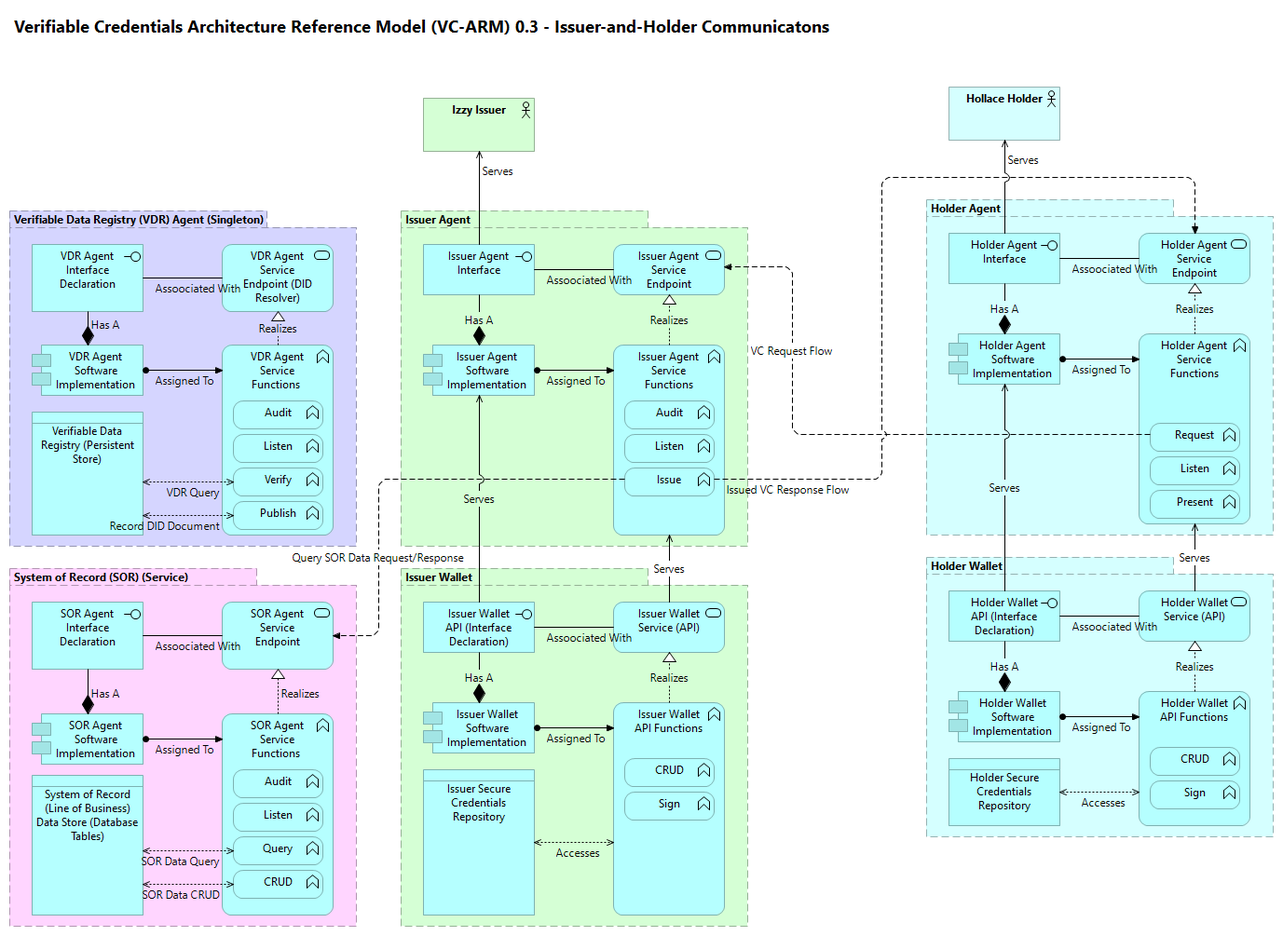
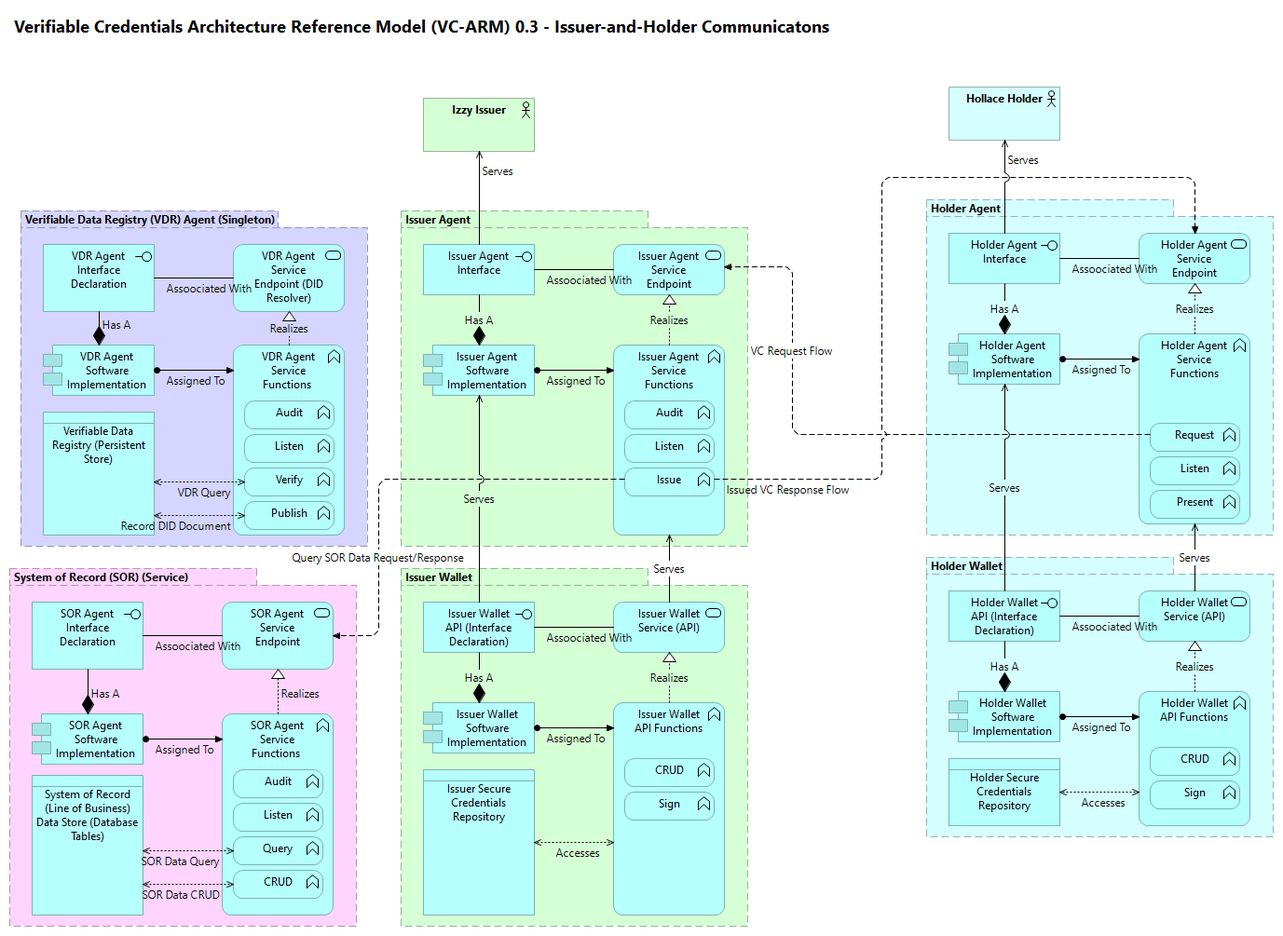
Added FAQ

Changed region(s): [[0.0, 0.2159, 0.3123, 0.5861]]

diff --git a/docs/id-5f1b868ce86d44c0824994fb5651137e/views/id-4c0af73380a04267b448e217e11a80a4.html b/docs/id-5f1b868ce86d44c0824994fb5651137e/views/id-4c0af73380a04267b448e217e11a80a4.html
@@ -34,18 +34,18 @@
 		    <!-- If this is a digram model (has children and no bounds) show the image -->
 			   <img class="diagram" src="../images/id-4c0af73380a04267b448e217e11a80a4.png" alt="Communication Flows: Issuer-and-Holder" usemap="#id-4c0af73380a04267b448e217e11a80a4map"/>
 			   <map name="id-4c0af73380a04267b448e217e11a80a4map">
-				  				<area shape="rect" coords="34,442,154,575" href="../elements/id-d2669cd4869b4918b96d83f2697f63bf.html"  target="element">
-				  						<area shape="rect" coords="250,430,347,461" href="../elements/id-143b9edecc7b44c0917c55745e32f9d3.html"  target="element">
-				  						<area shape="rect" coords="250,538,347,569" href="../elements/id-7ab0f2a4dbd24fd982598d35aa2033d5.html"  target="element">
-				  						<area shape="rect" coords="250,502,347,533" href="../elements/id-238f9a684a5e4c48839e8c8fc182c066.html"  target="element">
-				  						<area shape="rect" coords="250,466,347,497" href="../elements/id-466c1edd85ff4fd88c7d10ef111f2081.html"  target="element">
+				  				<area shape="rect" coords="46,442,166,575" href="../elements/id-d2669cd4869b4918b96d83f2697f63bf.html"  target="element">
+				  						<area shape="rect" coords="262,430,359,461" href="../elements/id-143b9edecc7b44c0917c55745e32f9d3.html"  target="element">
+				  						<area shape="rect" coords="262,538,359,569" href="../elements/id-7ab0f2a4dbd24fd982598d35aa2033d5.html"  target="element">
+				  						<area shape="rect" coords="262,502,359,533" href="../elements/id-238f9a684a5e4c48839e8c8fc182c066.html"  target="element">
+				  						<area shape="rect" coords="262,466,359,497" href="../elements/id-466c1edd85ff4fd88c7d10ef111f2081.html"  target="element">
 
-				  				<area shape="rect" coords="238,370,358,575" href="../elements/id-da2157ea7d364e7d9f803749988b112b.html"  target="element">
-				  				<area shape="rect" coords="238,262,358,335" href="../elements/id-598dcd0d44c14dc88d2234e6d6434af1.html"  target="element">
-				  				<area shape="rect" coords="34,262,154,335" href="../elements/id-f49c5bb6f4c3437a9a09ce7afd8a2c67.html"  target="element">
-				  				<area shape="rect" coords="34,370,154,425" href="../elements/id-fa38868c0df74b93a37cbc67a8cc2287.html"  target="element">
+				  				<area shape="rect" coords="250,370,370,575" href="../elements/id-da2157ea7d364e7d9f803749988b112b.html"  target="element">
+				  				<area shape="rect" coords="250,262,370,335" href="../elements/id-598dcd0d44c14dc88d2234e6d6434af1.html"  target="element">
+				  				<area shape="rect" coords="46,262,166,335" href="../elements/id-f49c5bb6f4c3437a9a09ce7afd8a2c67.html"  target="element">
+				  				<area shape="rect" coords="46,370,166,425" href="../elements/id-fa38868c0df74b93a37cbc67a8cc2287.html"  target="element">
 
-				  		<area shape="rect" coords="10,226,383,587" href="../elements/id-7cb45253d77f4068ae1a3cfa44d5d845.html"  target="element">
+				  		<area shape="rect" coords="22,226,395,587" href="../elements/id-7cb45253d77f4068ae1a3cfa44d5d845.html"  target="element">
 				  				<area shape="rect" coords="34,832,154,983" href="../elements/id-2aa252f167834aa2a2e55701203b2270.html"  target="element">
 				  						<area shape="rect" coords="250,826,347,857" href="../elements/id-8f312895ae574dfa8adbec6e15f2b607.html"  target="element">
 				  						<area shape="rect" coords="250,934,347,965" href="../elements/id-335c50648a6e4cf1a4544d76a94bcf3a.html"  target="element">
@@ -916,12 +916,6 @@
 																		<td> <a href="../elements/id-598dcd0d44c14dc88d2234e6d6434af1.html" target="element"> VDR Agent Service Endpoint (DID Resolver) </a> </td>
 																	</tr>
 																	<tr>
-																		<td> <a href="../elements/id-254c85ed8f8a455f9f8d03dc4af5f5a3.html" target="element">  </a> </td>
-																		<td> <a href="../elements/id-254c85ed8f8a455f9f8d03dc4af5f5a3.html" target="element" class="i18n-elementtype-CompositionRelationship"></a> </td>
-																		<td> <a href="../elements/id-7cb45253d77f4068ae1a3cfa44d5d845.html" target="element"> Verifiable Data Registry (VDR) Agent (Singleton) </a> </td>
-																		<td> <a href="../elements/id-f49c5bb6f4c3437a9a09ce7afd8a2c67.html" target="element"> VDR Agent Interface Declaration </a> </td>
-																	</tr>
-																	<tr>
 																		<td> <a href="../elements/id-c22a2f4f60394b5ba5d6a4dba4d61e34.html" target="element">  </a> </td>
 																		<td> <a href="../elements/id-c22a2f4f60394b5ba5d6a4dba4d61e34.html" target="element" class="i18n-elementtype-CompositionRelationship"></a> </td>
 																		<td> <a href="../elements/id-7cb45253d77f4068ae1a3cfa44d5d845.html" target="element"> Verifiable Data Registry (VDR) Agent (Singleton) </a> </td>
@@ -932,6 +926,12 @@
 																		<td> <a href="../elements/id-c8bce4f9b0394b56bb0a08739055cb70.html" target="element" class="i18n-elementtype-CompositionRelationship"></a> </td>
 																		<td> <a href="../elements/id-7cb45253d77f4068ae1a3cfa44d5d845.html" target="element"> Verifiable Data Registry (VDR) Agent (Singleton) </a> </td>
 																		<td> <a href="../elements/id-d2669cd4869b4918b96d83f2697f63bf.html" target="element"> Verifiable Data Registry (Persistent Store) </a> </td>
+																	</tr>
+																	<tr>
+																		<td> <a href="../elements/id-254c85ed8f8a455f9f8d03dc4af5f5a3.html" target="element">  </a> </td>
+																		<td> <a href="../elements/id-254c85ed8f8a455f9f8d03dc4af5f5a3.html" target="element" class="i18n-elementtype-CompositionRelationship"></a> </td>
+																		<td> <a href="../elements/id-7cb45253d77f4068ae1a3cfa44d5d845.html" target="element"> Verifiable Data Registry (VDR) Agent (Singleton) </a> </td>
+																		<td> <a href="../elements/id-f49c5bb6f4c3437a9a09ce7afd8a2c67.html" target="element"> VDR Agent Interface Declaration </a> </td>
 																	</tr>
 
 																			<tr>
@@ -955,10 +955,10 @@
 																			</tr>
 
 																			<tr>
-																				<td> <a href="../elements/id-89b760d8cd74445e994cde6f78cfdfe8.html" target="element">  </a> </td>
-																				<td> <a href="../elements/id-89b760d8cd74445e994cde6f78cfdfe8.html" target="element" class="i18n-elementtype-CompositionRelationship"></a> </td>
+																				<td> <a href="../elements/id-8df7479c4c674c49b52897e6119cc360.html" target="element">  </a> </td>
+																				<td> <a href="../elements/id-8df7479c4c674c49b52897e6119cc360.html" target="element" class="i18n-elementtype-CompositionRelationship"></a> </td>
 																				<td> <a href="../elements/id-da2157ea7d364e7d9f803749988b112b.html" target="element"> VDR Agent Service Functions  </a> </td>
-																				<td> <a href="../elements/id-143b9edecc7b44c0917c55745e32f9d3.html" target="element"> Audit </a> </td>
+																				<td> <a href="../elements/id-238f9a684a5e4c48839e8c8fc182c066.html" target="element"> Verify </a> </td>
 																			</tr>
 																			<tr>
 																				<td> <a href="../elements/id-8da49164fd4e4d8b8ac0d85acd8c000e.html" target="element">  </a> </td>
@@ -967,10 +967,10 @@
 																				<td> <a href="../elements/id-7ab0f2a4dbd24fd982598d35aa2033d5.html" target="element"> Publish </a> </td>
 																			</tr>
 																			<tr>
-																				<td> <a href="../elements/id-b8bd4dd5b99245b5b0ce816858c45f83.html" target="element"> Realizes </a> </td>
-																				<td> <a href="../elements/id-b8bd4dd5b99245b5b0ce816858c45f83.html" target="element" class="i18n-elementtype-RealizationRelationship"></a> </td>
+																				<td> <a href="../elements/id-89b760d8cd74445e994cde6f78cfdfe8.html" target="element">  </a> </td>
+																				<td> <a href="../elements/id-89b760d8cd74445e994cde6f78cfdfe8.html" target="element" class="i18n-elementtype-CompositionRelationship"></a> </td>
 																				<td> <a href="../elements/id-da2157ea7d364e7d9f803749988b112b.html" target="element"> VDR Agent Service Functions  </a> </td>
-																				<td> <a href="../elements/id-598dcd0d44c14dc88d2234e6d6434af1.html" target="element"> VDR Agent Service Endpoint (DID Resolver) </a> </td>
+																				<td> <a href="../elements/id-143b9edecc7b44c0917c55745e32f9d3.html" target="element"> Audit </a> </td>
 																			</tr>
 																			<tr>
 																				<td> <a href="../elements/id-98f1904410814c31bcf23fc3781caa10.html" target="element">  </a> </td>
@@ -979,10 +979,10 @@
 																				<td> <a href="../elements/id-466c1edd85ff4fd88c7d10ef111f2081.html" target="element"> Listen </a> </td>
 																			</tr>
 																			<tr>
-																				<td> <a href="../elements/id-8df7479c4c674c49b52897e6119cc360.html" target="element">  </a> </td>
-																				<td> <a href="../elements/id-8df7479c4c674c49b52897e6119cc360.html" target="element" class="i18n-elementtype-CompositionRelationship"></a> </td>
+																				<td> <a href="../elements/id-b8bd4dd5b99245b5b0ce816858c45f83.html" target="element"> Realizes </a> </td>
+																				<td> <a href="../elements/id-b8bd4dd5b99245b5b0ce816858c45f83.html" target="element" class="i18n-elementtype-RealizationRelationship"></a> </td>
 																				<td> <a href="../elements/id-da2157ea7d364e7d9f803749988b112b.html" target="element"> VDR Agent Service Functions  </a> </td>
-																				<td> <a href="../elements/id-238f9a684a5e4c48839e8c8fc182c066.html" target="element"> Verify </a> </td>
+																				<td> <a href="../elements/id-598dcd0d44c14dc88d2234e6d6434af1.html" target="element"> VDR Agent Service Endpoint (DID Resolver) </a> </td>
 																			</tr>
 
 																					<tr>

diff --git a/docs/id-5f1b868ce86d44c0824994fb5651137e/views/id-66320fa90a1a491fb546a35e341736f6.html b/docs/id-5f1b868ce86d44c0824994fb5651137e/views/id-66320fa90a1a491fb546a35e341736f6.html
@@ -1,0 +1,119 @@
+<!DOCTYPE HTML PUBLIC "-//W3C//DTD HTML 4.01 Transitional//EN" "http://www.w3.org/TR/html4/loose.dtd">
+<html class="frame" lang="en">
+<head>
+	<meta http-equiv="Content-Type" content="text/html;charset=utf-8">
+	<title>FAQ</title>
+
+	<!-- JQUERY (use 1.x branch to be compatible with IE 6/7/8) -->
+	<script type="text/javascript" src="../../lib/jquery/js/jquery-1.11.2.min.js"></script>
+	<!-- BOOTSTRAP -->
+	<link type="text/css" rel="stylesheet" href="../../lib/bootstrap/css/bootstrap-3.3.2.min.css">
+	<link type="text/css" rel="stylesheet" href="../../lib/bootstrap/css/bootstrap-theme-3.3.2.min.css">
+	<script type="text/javascript" src="../../lib/bootstrap/js/bootstrap-3.3.2.min.js"></script>
+	<!-- REPORT SPECIFIC -->
+	<link type="text/css" rel="stylesheet" href="../../css/model.css">
+	<link type="text/css" rel="stylesheet" href="../../css/i18n.css">
+	<script type="text/javascript" src="../../js/frame.js"></script>
+	<script type="text/javascript" src="../../js/imageMapResizer.min.js"></script>
+</head>
+
+<body>
+	<div class="panel panel-default root-panel">
+
+		<div class="panel-heading root-panel-heading">
+            <!-- Name -->
+               <b>FAQ</b>
+
+            <!-- If a View with Viewpoint -->
+			   (<span class="i18n-viewpoint-"></span>)
+			   <a class="glyphicon glyphicon-info-sign" id="hint-viewpoint_" target="hint"></a>
+            <!-- Or if a model (i.e has Purpose method) -->
+		</div>
+
+		<div class="panel-body root-panel-body">
+		    <!-- If this is a digram model (has children and no bounds) show the image -->
+			   <img class="diagram" src="../images/id-66320fa90a1a491fb546a35e341736f6.png" alt="FAQ" usemap="#id-66320fa90a1a491fb546a35e341736f6map"/>
+			   <map name="id-66320fa90a1a491fb546a35e341736f6map">
+				          <area shape="rect" coords="10,10,587,71" href="../objects/id-e934f7502eac488eaa6cc41bd53b0e2e.html" target="element" >
+				          <area shape="rect" coords="10,94,587,611" href="../objects/id-3a858868b2144f2cad5218dd00d569b4.html" target="element" >
+
+			   </map>
+
+			<div role="tabpanel">
+				<!-- Nav tabs -->
+				<ul class="nav nav-tabs" role="tablist">
+                    <!-- Purpose / Documentation / Content -->
+					   <li role="presentation" class="active"><a href="#documentation" aria-controls="documentation" role="tab" data-toggle="tab" class="i18n-documentation"></a></li>
+
+                    <!-- Properties -->
+                    <li role="presentation"><a href="#properties" aria-controls="properties" role="tab" data-toggle="tab" class="i18n-properties"></a></li>
+
+						<li role="presentation"><a href="#elements" aria-controls="elements" role="tab" data-toggle="tab" class="i18n-elements"></a></li>
+						<li role="presentation"><a href="#relationships" aria-controls="relationships" role="tab" data-toggle="tab" class="i18n-relationships"></a></li>
+                    <!-- Model, Query Tab -->
+				</ul>
+
+				<!-- Tab panes -->
+				<div class="tab-content">
+					<div role="tabpanel" class="tab-pane active" id="documentation">
+						<div class="convertlinks documentation" style="white-space:pre-wrap"></div>
+					</div>
+					<div role="tabpanel" class="tab-pane" id="properties">
+						<table class="table table-striped table-hover table-condensed">
+							<thead>
+								<tr>
+									<th class="i18n-key"></th>
+									<th class="i18n-value"></th>
+								</tr>
+							</thead>
+							<tbody>
+							</tbody>
+						</table>
+					</div>
+						<div role="tabpanel" class="tab-pane" id="elements">
+							<table class="table table-striped table-hover table-condensed">
+								<thead>
+									<tr>
+										<th class="i18n-name"></th>
+										<th class="i18n-type"></th>
+									</tr>
+								</thead>
+								<tbody>
+									        <tr>
+									           <td> <a href="../objects/id-3a858868b2144f2cad5218dd00d569b4.html" target="element">  </a> </td>
+									           <td> <a href="../objects/id-3a858868b2144f2cad5218dd00d569b4.html" target="element" class="i18n-elementtype-DiagramModelNote"> </a> </td>
+									        </tr>
+
+									        <tr>
+									           <td> <a href="../objects/id-e934f7502eac488eaa6cc41bd53b0e2e.html" target="element">  </a> </td>
+									           <td> <a href="../objects/id-e934f7502eac488eaa6cc41bd53b0e2e.html" target="element" class="i18n-elementtype-DiagramModelNote"> </a> </td>
+									        </tr>
+
+
+								</tbody>
+							</table>
+						</div>
+						<div role="tabpanel" class="tab-pane" id="relationships">
+							<table class="table table-striped table-hover table-condensed">
+								<thead>
+									<tr>
+										<th class="i18n-name"></th>
+										<th class="i18n-type"></th>
+										<th class="i18n-source"></th>
+										<th class="i18n-target"></th>
+									</tr>
+								</thead>
+								<tbody>
+											<!-- DEBUG: Skipping element from class com.archimatetool.model.impl.DiagramModelNote -->
+											<!-- DEBUG: Skipping element from class com.archimatetool.model.impl.DiagramModelNote -->
+
+								</tbody>
+							</table>
+						</div>
+			  </div>
+			</div>
+		</div>
+	</div>
+	<script type="text/javascript">imageMapResize();</script>
+</body>
+</html>

diff --git a/docs/id-5f1b868ce86d44c0824994fb5651137e/elements/model.html b/docs/id-5f1b868ce86d44c0824994fb5651137e/elements/model.html
@@ -1008,20 +1008,20 @@
 												
 																		dataViewsContent.push({viewid:"id-4c0af73380a04267b448e217e11a80a4", contentid:"id-e27bb3eac4d14cc9834c633362dea765", contenttype:"CompositionRelationship"});
 																		dataViewsContent.push({viewid:"id-4c0af73380a04267b448e217e11a80a4", contentid:"id-f76c005a02f24f2ea62928b5ffd11954", contenttype:"CompositionRelationship"});
-																		dataViewsContent.push({viewid:"id-4c0af73380a04267b448e217e11a80a4", contentid:"id-254c85ed8f8a455f9f8d03dc4af5f5a3", contenttype:"CompositionRelationship"});
 																		dataViewsContent.push({viewid:"id-4c0af73380a04267b448e217e11a80a4", contentid:"id-c22a2f4f60394b5ba5d6a4dba4d61e34", contenttype:"CompositionRelationship"});
 																		dataViewsContent.push({viewid:"id-4c0af73380a04267b448e217e11a80a4", contentid:"id-c8bce4f9b0394b56bb0a08739055cb70", contenttype:"CompositionRelationship"});
+																		dataViewsContent.push({viewid:"id-4c0af73380a04267b448e217e11a80a4", contentid:"id-254c85ed8f8a455f9f8d03dc4af5f5a3", contenttype:"CompositionRelationship"});
 
 																				dataViewsContent.push({viewid:"id-4c0af73380a04267b448e217e11a80a4", contentid:"id-16a5153eb0b048deb966bee1593a1e9a", contenttype:"AssignmentRelationship"});
 																				dataViewsContent.push({viewid:"id-4c0af73380a04267b448e217e11a80a4", contentid:"id-5fa0f31918cd48f0bf51cd08e02f1367", contenttype:"CompositionRelationship"});
 
 																				dataViewsContent.push({viewid:"id-4c0af73380a04267b448e217e11a80a4", contentid:"id-ca1f1d91f3aa41b094054986e28dd597", contenttype:"AssociationRelationship"});
 
-																				dataViewsContent.push({viewid:"id-4c0af73380a04267b448e217e11a80a4", contentid:"id-89b760d8cd74445e994cde6f78cfdfe8", contenttype:"CompositionRelationship"});
-																				dataViewsContent.push({viewid:"id-4c0af73380a04267b448e217e11a80a4", contentid:"id-8da49164fd4e4d8b8ac0d85acd8c000e", contenttype:"CompositionRelationship"});
-																				dataViewsContent.push({viewid:"id-4c0af73380a04267b448e217e11a80a4", contentid:"id-b8bd4dd5b99245b5b0ce816858c45f83", contenttype:"RealizationRelationship"});
-																				dataViewsContent.push({viewid:"id-4c0af73380a04267b448e217e11a80a4", contentid:"id-98f1904410814c31bcf23fc3781caa10", contenttype:"CompositionRelationship"});
 																				dataViewsContent.push({viewid:"id-4c0af73380a04267b448e217e11a80a4", contentid:"id-8df7479c4c674c49b52897e6119cc360", contenttype:"CompositionRelationship"});
+																				dataViewsContent.push({viewid:"id-4c0af73380a04267b448e217e11a80a4", contentid:"id-8da49164fd4e4d8b8ac0d85acd8c000e", contenttype:"CompositionRelationship"});
+																				dataViewsContent.push({viewid:"id-4c0af73380a04267b448e217e11a80a4", contentid:"id-89b760d8cd74445e994cde6f78cfdfe8", contenttype:"CompositionRelationship"});
+																				dataViewsContent.push({viewid:"id-4c0af73380a04267b448e217e11a80a4", contentid:"id-98f1904410814c31bcf23fc3781caa10", contenttype:"CompositionRelationship"});
+																				dataViewsContent.push({viewid:"id-4c0af73380a04267b448e217e11a80a4", contentid:"id-b8bd4dd5b99245b5b0ce816858c45f83", contenttype:"RealizationRelationship"});
 
 																						dataViewsContent.push({viewid:"id-4c0af73380a04267b448e217e11a80a4", contentid:"id-88f27df468c8425a87f1a7f8fb7833d7", contenttype:"AccessRelationship"});
 
@@ -1244,6 +1244,8 @@
 
 									dataFoldersContent.push({folderid:"id-19c0f59c23d349d19f16ace39ee05d7e", contentid:"id-9aa2f518a1414287beecce222e41173e", contenttype:"ArchimateDiagramModel"});
 										dataViews.push({id:"id-9aa2f518a1414287beecce222e41173e", type:"ArchimateDiagramModel", name:decodeURL("CONTRIBUTORS"), documentation:decodeURL("")});
+									dataFoldersContent.push({folderid:"id-19c0f59c23d349d19f16ace39ee05d7e", contentid:"id-66320fa90a1a491fb546a35e341736f6", contenttype:"ArchimateDiagramModel"});
+										dataViews.push({id:"id-66320fa90a1a491fb546a35e341736f6", type:"ArchimateDiagramModel", name:decodeURL("FAQ"), documentation:decodeURL("")});
 
 
 

diff --git a/docs/id-5f1b868ce86d44c0824994fb5651137e/objects/id-3a858868b2144f2cad5218dd00d569b4.html b/docs/id-5f1b868ce86d44c0824994fb5651137e/objects/id-3a858868b2144f2cad5218dd00d569b4.html
@@ -1,0 +1,70 @@
+<!DOCTYPE HTML PUBLIC "-//W3C//DTD HTML 4.01 Transitional//EN" "http://www.w3.org/TR/html4/loose.dtd">
+<html class="frame" lang="en">
+<head>
+	<meta http-equiv="Content-Type" content="text/html;charset=utf-8">
+	<title></title>
+
+	<!-- JQUERY (use 1.x branch to be compatible with IE 6/7/8) -->
+	<script type="text/javascript" src="../../lib/jquery/js/jquery-1.11.2.min.js"></script>
+	<!-- BOOTSTRAP -->
+	<link type="text/css" rel="stylesheet" href="../../lib/bootstrap/css/bootstrap-3.3.2.min.css">
+	<link type="text/css" rel="stylesheet" href="../../lib/bootstrap/css/bootstrap-theme-3.3.2.min.css">
+	<script type="text/javascript" src="../../lib/bootstrap/js/bootstrap-3.3.2.min.js"></script>
+	<!-- REPORT SPECIFIC -->
+	<link type="text/css" rel="stylesheet" href="../../css/model.css">
+	<link type="text/css" rel="stylesheet" href="../../css/i18n.css">
+	<script type="text/javascript" src="../../js/frame.js"></script>
+	<script type="text/javascript" src="../../js/imageMapResizer.min.js"></script>
+</head>
+
+<body>
+	<div class="panel panel-default root-panel">
+
+		<div class="panel-heading root-panel-heading">
+            <!-- Name -->
+               <b class="i18n-elementtype-DiagramModelNote"></b>
+            <!-- If a View with Viewpoint -->
+			   (<span class="i18n-elementtype-DiagramModelNote"></span>)
+			   <a class="glyphicon glyphicon-info-sign" id="hint-DiagramModelNote" target="hint"></a>
+		</div>
+
+		<div class="panel-body root-panel-body">
+		    <!-- If this is a digram model (has children and no bounds) show the image -->
+
+			<div role="tabpanel">
+				<!-- Nav tabs -->
+				<ul class="nav nav-tabs" role="tablist">
+                    <!-- Purpose / Documentation / Content -->
+                       <li role="presentation" class="active"><a href="#documentation" aria-controls="documentation" role="tab" data-toggle="tab" class="i18n-content"></a></li>
+
+                    <!-- Properties -->
+                    <li role="presentation"><a href="#properties" aria-controls="properties" role="tab" data-toggle="tab" class="i18n-properties"></a></li>
+
+				</ul>
+
+				<!-- Tab panes -->
+				<div class="tab-content">
+					<div role="tabpanel" class="tab-pane active" id="documentation">
+						<div class="convertlinks documentation" style="white-space:pre-wrap">1. What is the listener subrole and the Listen funcion for?
+A: When a role (their agent actually) is not doing any work, it is in the Listener subrole - that is, the Agent (or Aervice) waiting for incoming requests to do work. The Agent is listening for new work. An Agent can also have an active Listener subrole while actively doing other work (dependent on the amount of multitasking supported by the environment). 
+</div>
+					</div>
+					<div role="tabpanel" class="tab-pane" id="properties">
+						<table class="table table-striped table-hover table-condensed">
+							<thead>
+								<tr>
+									<th class="i18n-key"></th>
+									<th class="i18n-value"></th>
+								</tr>
+							</thead>
+							<tbody>
+							</tbody>
+						</table>
+					</div>
+			  </div>
+			</div>
+		</div>
+	</div>
+	<script type="text/javascript">imageMapResize();</script>
+</body>
+</html>

diff --git a/docs/id-5f1b868ce86d44c0824994fb5651137e/objects/id-e934f7502eac488eaa6cc41bd53b0e2e.html b/docs/id-5f1b868ce86d44c0824994fb5651137e/objects/id-e934f7502eac488eaa6cc41bd53b0e2e.html
@@ -1,0 +1,68 @@
+<!DOCTYPE HTML PUBLIC "-//W3C//DTD HTML 4.01 Transitional//EN" "http://www.w3.org/TR/html4/loose.dtd">
+<html class="frame" lang="en">
+<head>
+	<meta http-equiv="Content-Type" content="text/html;charset=utf-8">
+	<title></title>
+
+	<!-- JQUERY (use 1.x branch to be compatible with IE 6/7/8) -->
+	<script type="text/javascript" src="../../lib/jquery/js/jquery-1.11.2.min.js"></script>
+	<!-- BOOTSTRAP -->
+	<link type="text/css" rel="stylesheet" href="../../lib/bootstrap/css/bootstrap-3.3.2.min.css">
+	<link type="text/css" rel="stylesheet" href="../../lib/bootstrap/css/bootstrap-theme-3.3.2.min.css">
+	<script type="text/javascript" src="../../lib/bootstrap/js/bootstrap-3.3.2.min.js"></script>
+	<!-- REPORT SPECIFIC -->
+	<link type="text/css" rel="stylesheet" href="../../css/model.css">
+	<link type="text/css" rel="stylesheet" href="../../css/i18n.css">
+	<script type="text/javascript" src="../../js/frame.js"></script>
+	<script type="text/javascript" src="../../js/imageMapResizer.min.js"></script>
+</head>
+
+<body>
+	<div class="panel panel-default root-panel">
+
+		<div class="panel-heading root-panel-heading">
+            <!-- Name -->
+               <b class="i18n-elementtype-DiagramModelNote"></b>
+            <!-- If a View with Viewpoint -->
+			   (<span class="i18n-elementtype-DiagramModelNote"></span>)
+			   <a class="glyphicon glyphicon-info-sign" id="hint-DiagramModelNote" target="hint"></a>
+		</div>
+
+		<div class="panel-body root-panel-body">
+		    <!-- If this is a digram model (has children and no bounds) show the image -->
+
+			<div role="tabpanel">
+				<!-- Nav tabs -->
+				<ul class="nav nav-tabs" role="tablist">
+                    <!-- Purpose / Documentation / Content -->
+                       <li role="presentation" class="active"><a href="#documentation" aria-controls="documentation" role="tab" data-toggle="tab" class="i18n-content"></a></li>
+
+                    <!-- Properties -->
+                    <li role="presentation"><a href="#properties" aria-controls="properties" role="tab" data-toggle="tab" class="i18n-properties"></a></li>
+
+				</ul>
+
+				<!-- Tab panes -->
+				<div class="tab-content">
+					<div role="tabpanel" class="tab-pane active" id="documentation">
+						<div class="convertlinks documentation" style="white-space:pre-wrap">Verifiable Credentials Architecture Reference Model (VC-ARM) 0.3 FREQUENTLY ASKED QUESTIONS (FAQ)</div>
+					</div>
+					<div role="tabpanel" class="tab-pane" id="properties">
+						<table class="table table-striped table-hover table-condensed">
+							<thead>
+								<tr>
+									<th class="i18n-key"></th>
+									<th class="i18n-value"></th>
+								</tr>
+							</thead>
+							<tbody>
+							</tbody>
+						</table>
+					</div>
+			  </div>
+			</div>
+		</div>
+	</div>
+	<script type="text/javascript">imageMapResize();</script>
+</body>
+</html>

diff --git a/docs/index.html b/docs/index.html
@@ -638,6 +638,7 @@
 											<li class="tree-element"><a href="id-5f1b868ce86d44c0824994fb5651137e/views/id-5719bd4106c44f809f9193cd09aaadfc.html" target="view"> Agents-Services: Verifiable Data Registry (VDR) Agent </a></li>
 											<li class="tree-element"><a href="id-5f1b868ce86d44c0824994fb5651137e/views/id-e9d60a40a1af436ca2ea83347a039677.html" target="view"> Agents-Services: System of Record (SOR) Agent (Service) </a></li>
 											<li class="tree-element"><a href="id-5f1b868ce86d44c0824994fb5651137e/views/id-9aa2f518a1414287beecce222e41173e.html" target="view"> CONTRIBUTORS </a></li>
+											<li class="tree-element"><a href="id-5f1b868ce86d44c0824994fb5651137e/views/id-66320fa90a1a491fb546a35e341736f6.html" target="view"> FAQ </a></li>
 
 							</ul>
 						</li>
